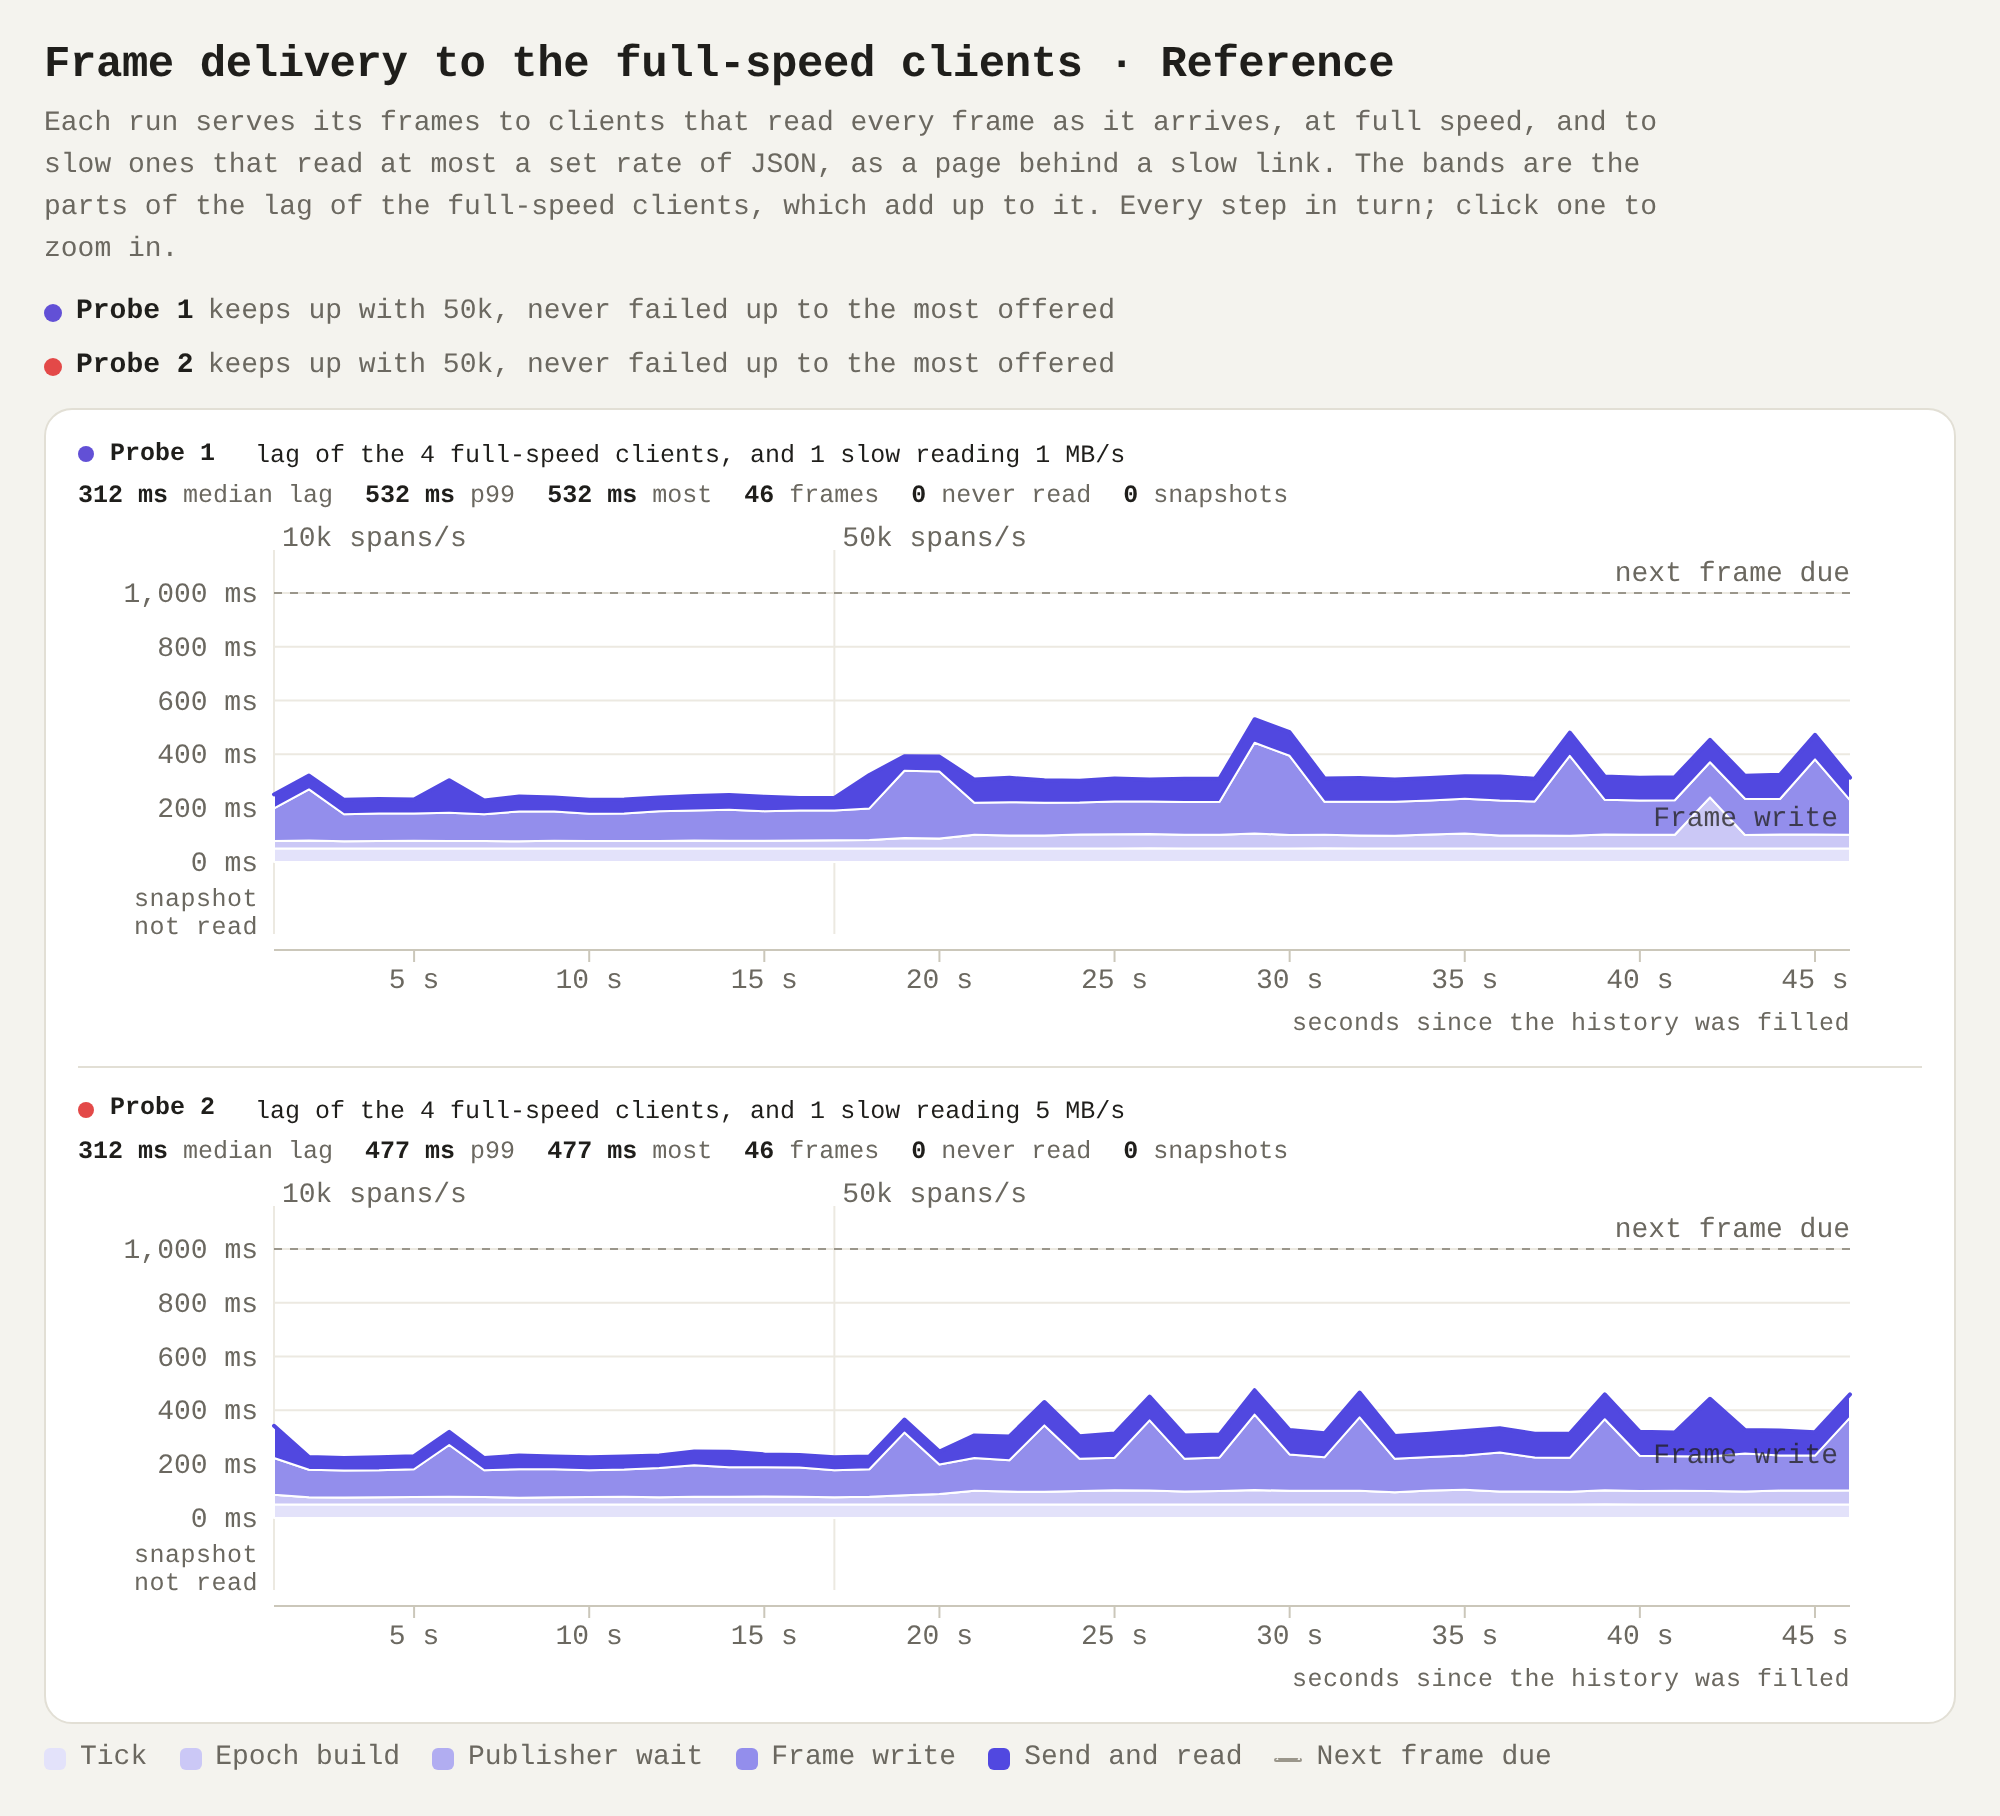
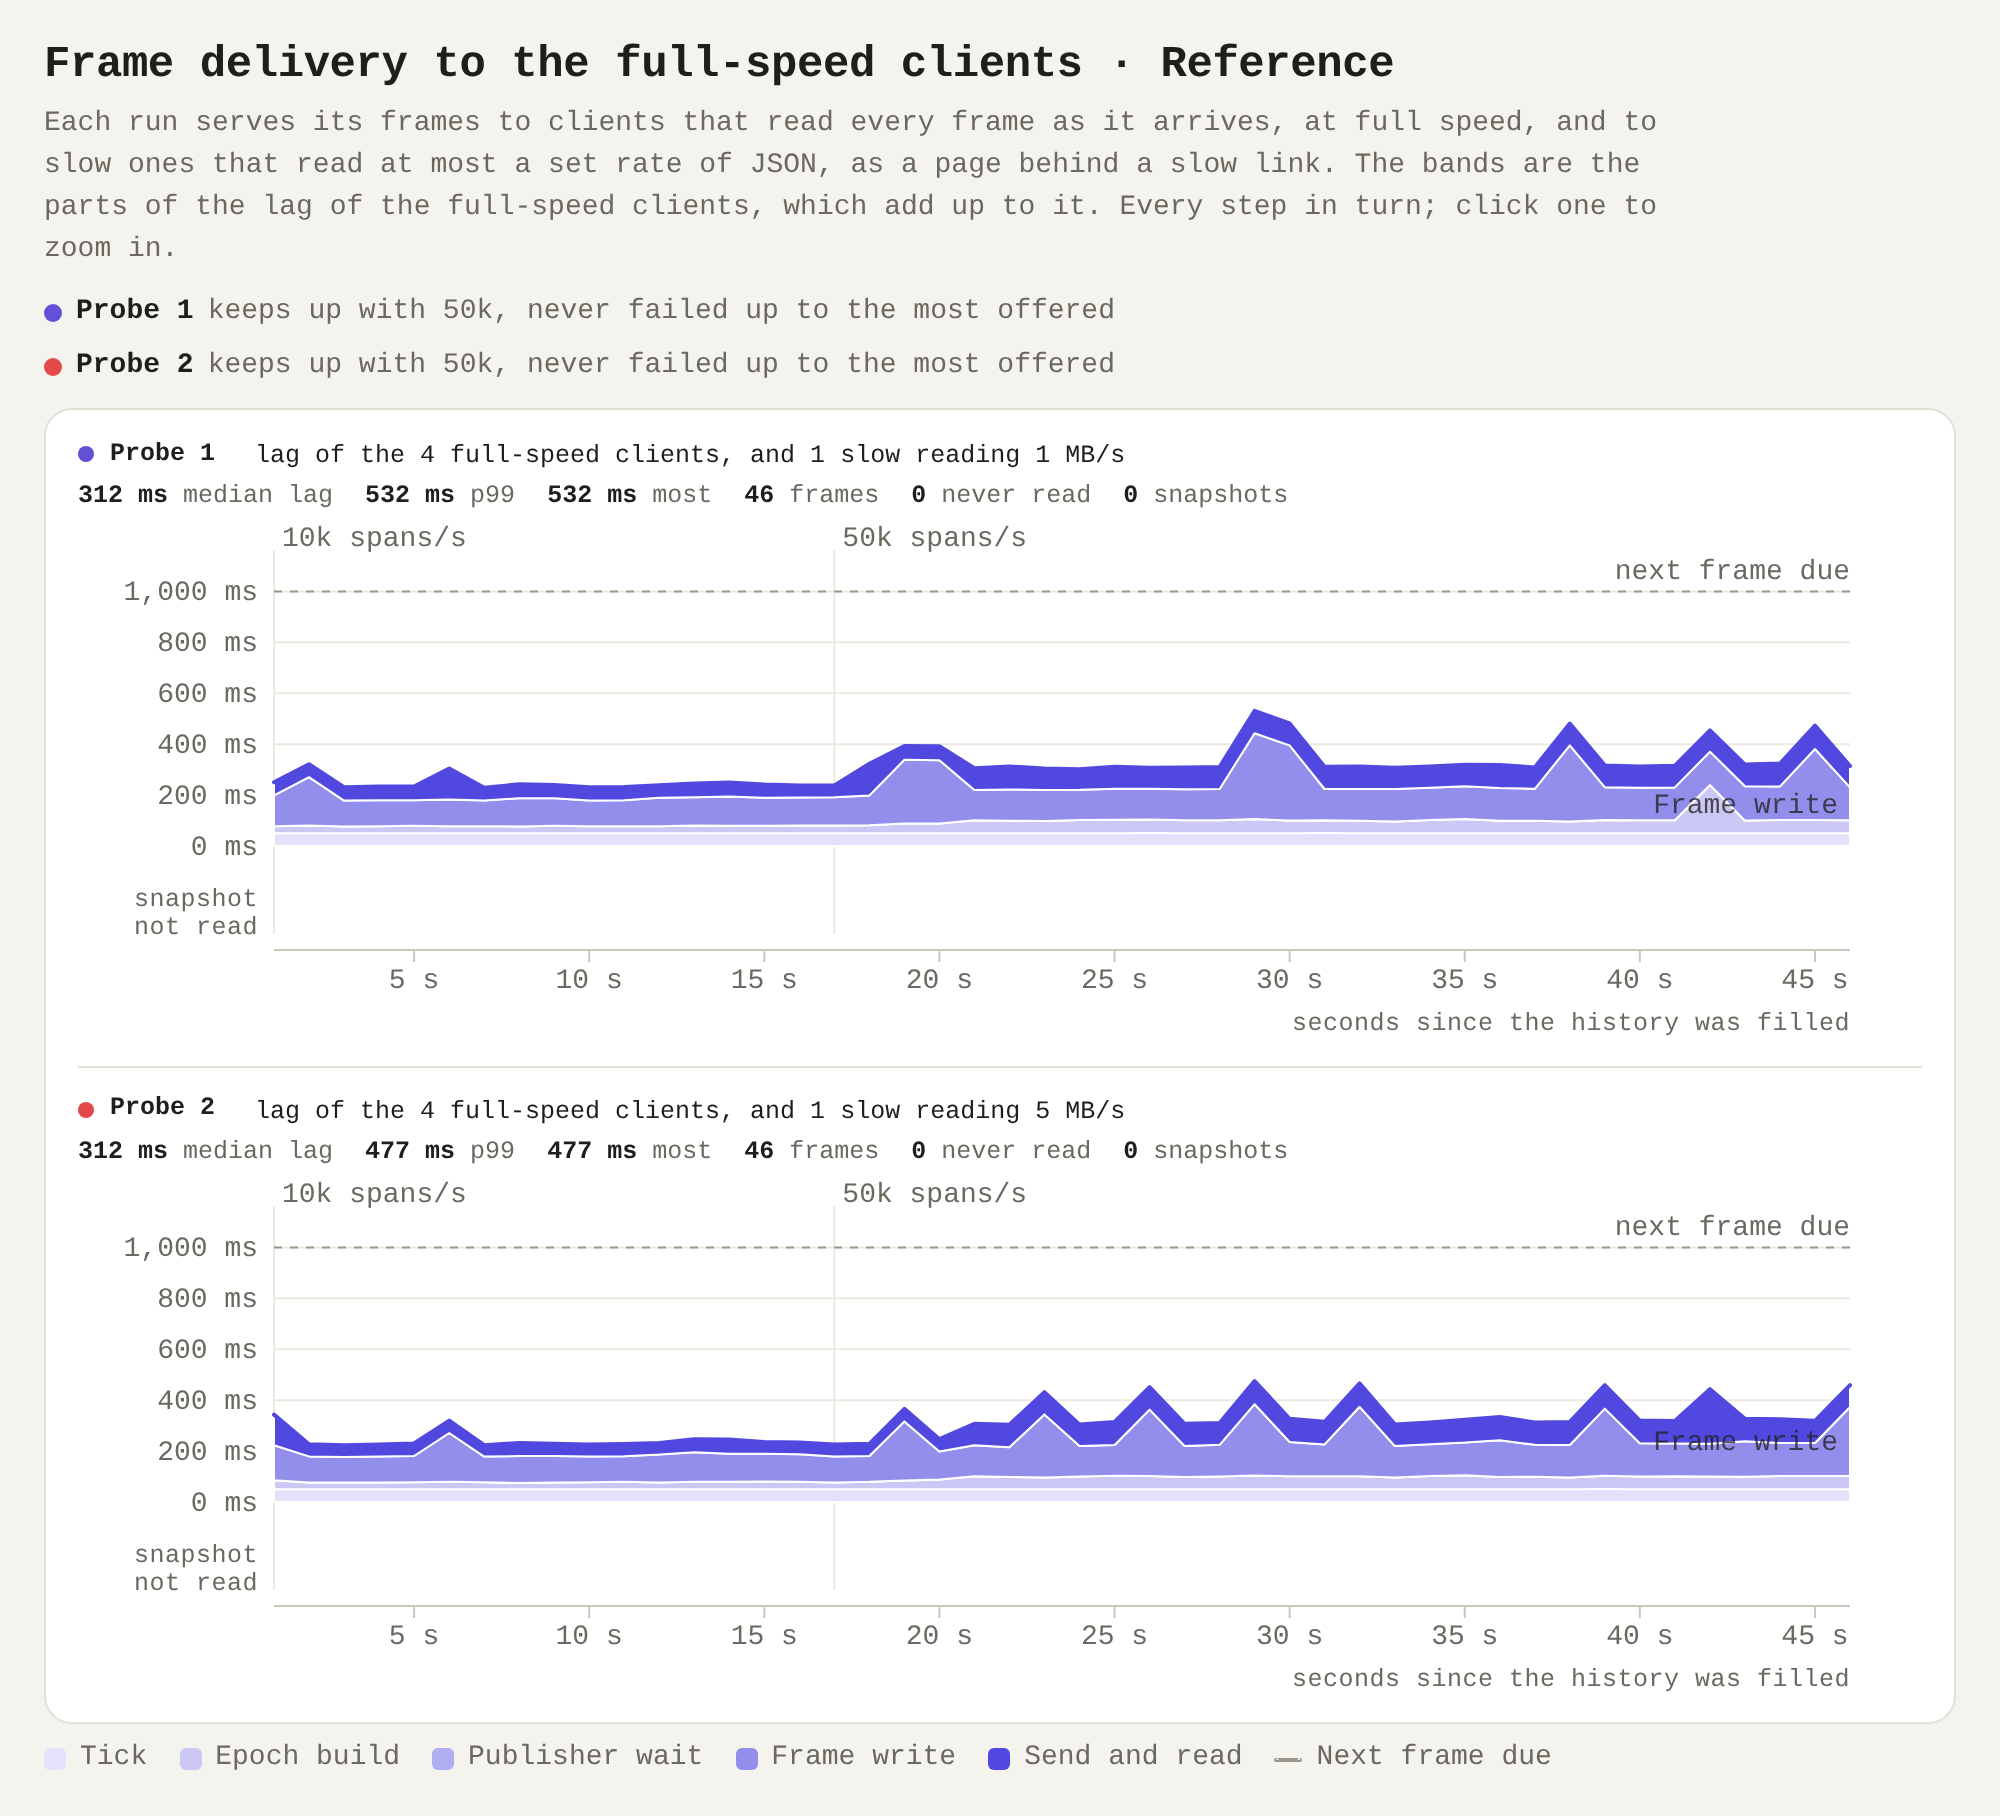
Keep the verdict strips and the delivery rows clear of the axis's lowest label

Changed region(s): [[0.062, 0.3084, 0.93, 0.4934], [0.062, 0.6784, 0.93, 0.8326], [0.806, 0.3084, 0.93, 0.3392]]

diff --git a/docs/saturation/dashboard.html b/docs/saturation/dashboard.html
@@ -1018,7 +1018,9 @@
     const left = Math.ceil(maxOf(yTicks, (tick) => textWidth(svg, yTick(tick)))) + 12;
     const stripHeight = 10;
     const stripGap = 4;
-    const strips = series.length * (stripHeight + stripGap) + 6;
+    // The strips keep clear of the plot, so the axis's lowest label never crowds the first strip's dot.
+    const stripsTop = 18;
+    const strips = series.length * (stripHeight + stripGap) + stripsTop;
     const margin = { top: 16, right: 20, bottom: 48 + strips, left };
     const axisY = height - 48;
     const xs = [...new Set(series.flatMap((each) => each.values.map((point) => point.x)))].sort((a, b) => a - b);
@@ -1039,7 +1041,7 @@
     // Keeping up is the expected case, so it stays quiet and the eye goes to where a run starts to shed and fail.
     const TONES = { ok: ['var(--ok)', 0.3], warn: ['var(--warn)', 0.85], bad: ['var(--bad)', 0.85], muted: ['var(--reference)', 0.5] };
     series.forEach((each, index) => {
-      const top = height - margin.bottom + 6 + index * (stripHeight + stripGap);
+      const top = height - margin.bottom + stripsTop + index * (stripHeight + stripGap);
       el(svg, 'circle', { cx: margin.left - 9, cy: top + stripHeight / 2, r: 4, fill: each.color, 'data-key': each.key });
       for (const point of each.values) {
         const [from, to] = edges[xs.indexOf(point.x)];
@@ -1199,7 +1201,7 @@
     const rugLabels = ['snapshot', 'not read'];
     const yTick = lagTicks(yMax);
     const left = Math.ceil(Math.max(...yTicks.map((tick) => textWidth(svg, yTick(tick))), ...rugLabels.map((label) => textWidth(svg, label)))) + 14;
-    const rug = 44;
+    const rug = 52;
     const margin = { top: 24, right: 20, bottom: 44 + rug, left };
     const plotBottom = height - margin.bottom;
     const x = linearScale(tRange, [margin.left, width - margin.right]);
@@ -1251,7 +1253,7 @@
     }
     el(svg, 'line', { class: 'reference', x1: margin.left, x2: width - margin.right, y1: y(FRAME_DUE_MS), y2: y(FRAME_DUE_MS) });
     el(svg, 'text', { x: width - margin.right, y: y(FRAME_DUE_MS) - 6, 'text-anchor': 'end' }, 'next frame due');
-    const rugAt = (index) => plotBottom + 18 + index * 14;
+    const rugAt = (index) => plotBottom + 26 + index * 14;
     rugLabels.forEach((label, index) => el(svg, 'text', { class: 'title', x: margin.left - 8, y: rugAt(index), dy: '0.32em', 'text-anchor': 'end' }, label));
     const tickWidth = Math.max(2, Math.min(6, (x(tRange[0] + 1) - x(tRange[0])) * 0.6));
     for (const row of rows) {
